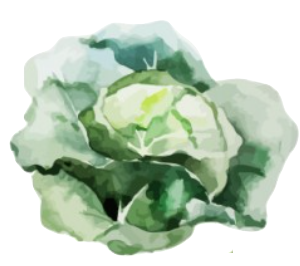
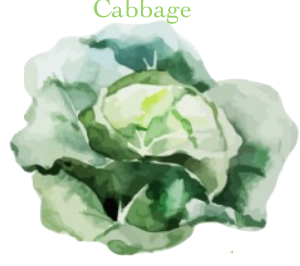
Add names to images.

Changed region(s): [[0.3, 0.0, 0.66, 0.0902]]

diff --git a/index.html b/index.html
@@ -23,9 +23,17 @@
     <!--draggable produce options -->
     <div class="container-fluid">
       <div class="row" align="center">
-        <img src="images/Tomato.png" alt="tomato" draggable="true" id="tomato" ondragstart="drag(event)">
-
+        <img src="images/basil.png" alt="basil" draggable="true" id="basil" ondragstart="drag(event)">
+        <img src="images/beetroot.png" alt="beetroot" draggable="true" id="beetroot" ondragstart="drag(event)">
+        <img src="images/cabbage.png" alt="cabbage" draggable="true" id="cabbage" ondragstart="drag(event)">
         <img src="images/Carrot.png" alt="carrot" draggable="true" id="carrot" ondragstart="drag(event)">
+        <img src="images/eggplant.png" alt="eggplant" draggable="true" id="eggplant" ondragstart="drag(event)">
+        <img src="images/lavender.png" alt="lavender" draggable="true" id="lavender" ondragstart="drag(event)">
+        <img src="images/peas.png" alt="peas" draggable="true" id="peas" ondragstart="drag(event)">
+        <img src="images/pepper.png" alt="pepper" draggable="true" id="pepper" ondragstart="drag(event)">
+        <img src="images/raddish.png" alt="raddish" draggable="true" id="raddish" ondragstart="drag(event)">
+        <img src="images/rosemary.png" alt="rosemary" draggable="true" id="rosemary" ondragstart="drag(event)">
+        <img src="images/Tomato.png" alt="tomato" draggable="true" id="tomato" ondragstart="drag(event)">
       </div>
     </div>
 

diff --git a/js/scripts.js b/js/scripts.js
@@ -33,7 +33,7 @@ function drag(event) {
 function drop(event) {
   event.preventDefault();
   var data = event.dataTransfer.getData("text");
-  $("#div1").empty();
+  // $("#div1").empty();
   // event.target.appendChild(document.getElementById(data));
 
 

diff --git a/css/styles.css b/css/styles.css
@@ -26,6 +26,7 @@ width:150px;height:150px;
 }
 body {
   border: solid 50px #33659A;
+  padding-bottom: 1000px;
 }
 
 .jumbotron {
